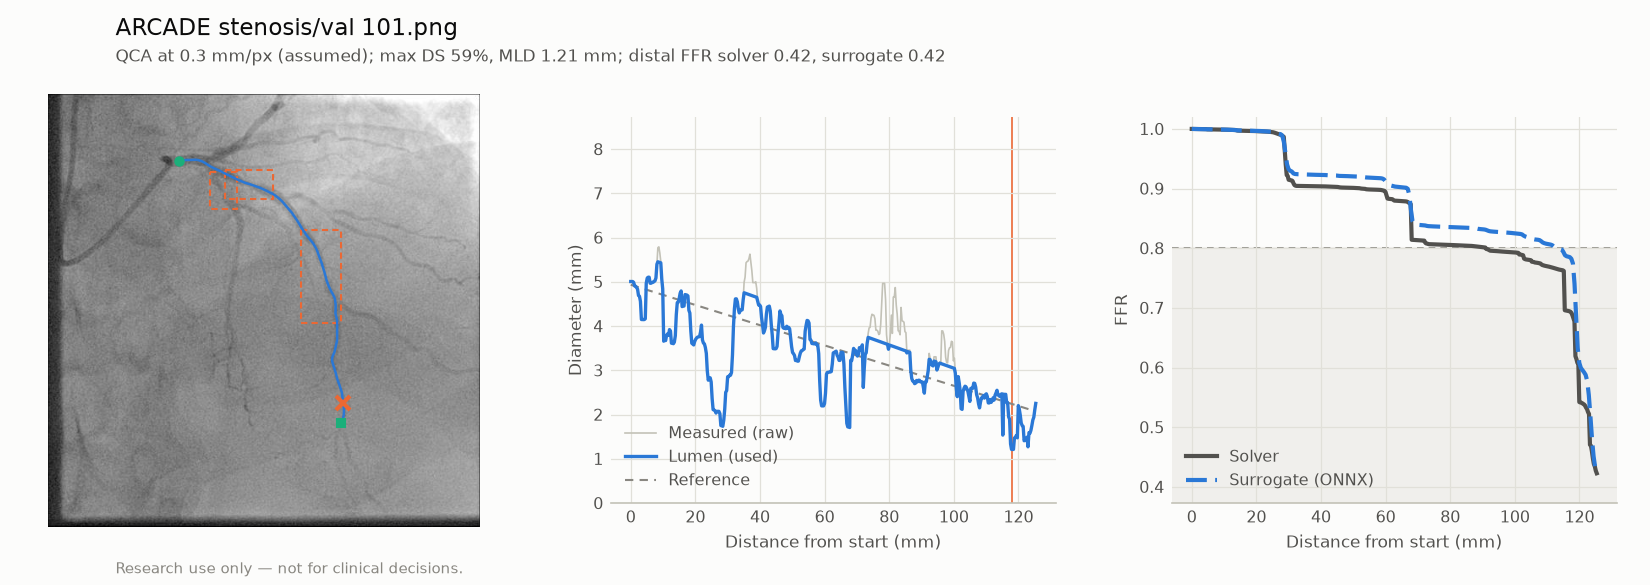
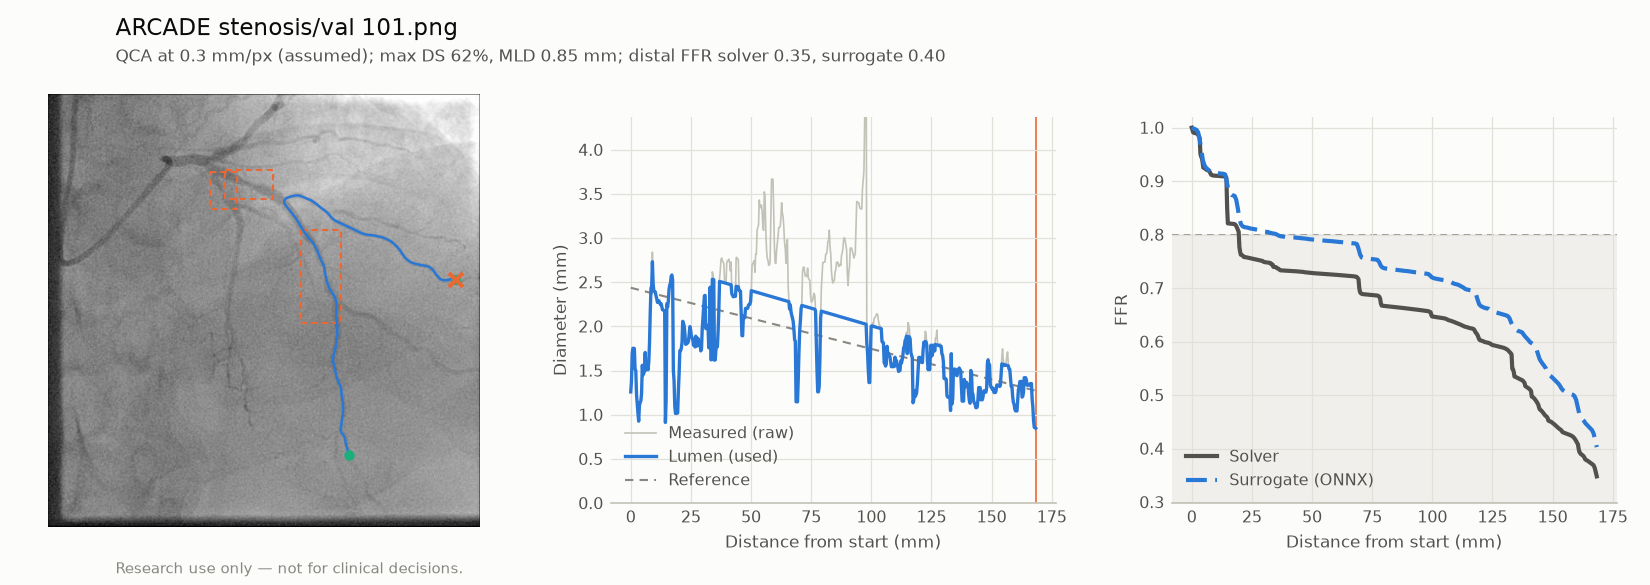
P8: QCA gallery regenerated with the adopted segmenter

diff --git a/reports/qca_gallery.md b/reports/qca_gallery.md
@@ -7,31 +7,31 @@ Generated by `vstent qca-gallery`. Do not edit by hand.
 The first 20 `stenosis/val` images (by COCO id). For each one the longest path of the largest segmented vessel component is selected automatically, so it often is **not** the vessel with the annotated stenosis. Pixel size: 0.30 mm/px **assumed** (ARCADE has no calibration), so lengths, diameters and FFR are illustrative only. The model has no side branches: the full inflow is carried along the whole path, so long paths that taper into thin distal branches show large viscous pressure losses that real flow, which leaves through the branches, would not produce. Dashed orange boxes: ARCADE stenosis annotations. Lumen edges: from the image intensity, guided by the segmentation (the product default, D43).
 
 - Analysed: 20 of 20 (failed: 0).
-- Auto-selected path crosses an annotated stenosis box: 20; of those, point of maximum %DS inside a box: 10, MLD (narrowest absolute diameter, often in a thin distal branch) inside a box: 2.
+- Auto-selected path crosses an annotated stenosis box: 20; of those, point of maximum %DS inside a box: 10, MLD (narrowest absolute diameter, often in a thin distal branch) inside a box: 4.
 - Outside the surrogate's training range (mostly vessel length): 19 of 20.
-- Median |distal FFR solver − surrogate|: 0.035
+- Median |distal FFR solver − surrogate|: 0.054
 
 | Image | Path (mm) | Max DS (%) | MLD (mm) | FFR solver | FFR surrogate | Boxes | Path crosses box | Max DS in box | MLD in box |
 |---|---|---|---|---|---|---|---|---|---|
-| [val_1](figures/qca_examples/val_1.png) | 161 | 77 | 0.73 | 0.19 | 0.17 | 1 | yes | no | no |
-| [val_10](figures/qca_examples/val_10.png) | 110 | 32 | 0.79 | 0.06 | -0.18 | 1 | yes | yes | no |
-| [val_100](figures/qca_examples/val_100.png) | 199 | 59 | 1.75 | 0.62 | 0.61 | 2 | yes | yes | no |
-| [val_101](figures/qca_examples/val_101.png) | 125 | 59 | 1.21 | 0.42 | 0.42 | 3 | yes | yes | no |
-| [val_102](figures/qca_examples/val_102.png) | 243 | 56 | 1.09 | 0.61 | 0.58 | 2 | yes | no | no |
-| [val_103](figures/qca_examples/val_103.png) | 162 | 58 | 0.88 | 0.29 | 0.29 | 3 | yes | yes | no |
-| [val_104](figures/qca_examples/val_104.png) | 265 | 52 | 1.59 | 0.78 | 0.73 | 3 | yes | no | no |
-| [val_105](figures/qca_examples/val_105.png) | 177 | 58 | 1.87 | 0.72 | 0.72 | 1 | yes | yes | no |
-| [val_106](figures/qca_examples/val_106.png) | 148 | 78 | 0.92 | 0.24 | 0.32 | 1 | yes | no | no |
-| [val_107](figures/qca_examples/val_107.png) | 138 | 85 | 0.33 | 0.19 | 0.48 | 2 | yes | no | no |
-| [val_108](figures/qca_examples/val_108.png) | 198 | 67 | 0.99 | 0.27 | 0.34 | 1 | yes | no | no |
-| [val_109](figures/qca_examples/val_109.png) | 179 | 50 | 1.84 | 0.69 | 0.63 | 2 | yes | yes | no |
-| [val_11](figures/qca_examples/val_11.png) | 152 | 39 | 1.13 | 0.51 | 0.50 | 2 | yes | no | no |
-| [val_110](figures/qca_examples/val_110.png) | 68 | 56 | 1.23 | 0.73 | 0.74 | 2 | yes | yes | yes |
-| [val_111](figures/qca_examples/val_111.png) | 242 | 70 | 1.00 | 0.20 | 0.19 | 4 | yes | yes | no |
-| [val_112](figures/qca_examples/val_112.png) | 143 | 58 | 1.52 | 0.52 | 0.58 | 4 | yes | yes | yes |
-| [val_113](figures/qca_examples/val_113.png) | 159 | 67 | 1.23 | 0.40 | 0.38 | 1 | yes | no | no |
-| [val_114](figures/qca_examples/val_114.png) | 151 | 42 | 0.88 | 0.06 | -0.22 | 8 | yes | yes | no |
-| [val_115](figures/qca_examples/val_115.png) | 174 | 67 | 1.14 | 0.35 | 0.41 | 2 | yes | no | no |
-| [val_116](figures/qca_examples/val_116.png) | 229 | 50 | 0.95 | 0.61 | 0.65 | 3 | yes | no | no |
+| [val_1](figures/qca_examples/val_1.png) | 167 | 57 | 1.51 | 0.52 | 0.56 | 1 | yes | yes | no |
+| [val_10](figures/qca_examples/val_10.png) | 111 | 33 | 0.90 | 0.06 | -0.15 | 1 | yes | no | no |
+| [val_100](figures/qca_examples/val_100.png) | 193 | 59 | 1.73 | 0.67 | 0.62 | 2 | yes | yes | no |
+| [val_101](figures/qca_examples/val_101.png) | 168 | 62 | 0.85 | 0.35 | 0.40 | 3 | yes | no | no |
+| [val_102](figures/qca_examples/val_102.png) | 243 | 60 | 1.00 | 0.60 | 0.59 | 2 | yes | no | no |
+| [val_103](figures/qca_examples/val_103.png) | 158 | 57 | 1.03 | 0.35 | 0.39 | 3 | yes | yes | no |
+| [val_104](figures/qca_examples/val_104.png) | 258 | 52 | 1.27 | 0.61 | 0.54 | 3 | yes | no | no |
+| [val_105](figures/qca_examples/val_105.png) | 170 | 57 | 1.91 | 0.79 | 0.74 | 1 | yes | yes | yes |
+| [val_106](figures/qca_examples/val_106.png) | 136 | 76 | 0.92 | 0.30 | 0.34 | 1 | yes | no | no |
+| [val_107](figures/qca_examples/val_107.png) | 149 | 70 | 0.94 | 0.55 | 0.62 | 2 | yes | no | no |
+| [val_108](figures/qca_examples/val_108.png) | 201 | 67 | 1.02 | 0.29 | 0.35 | 1 | yes | no | no |
+| [val_109](figures/qca_examples/val_109.png) | 182 | 50 | 1.68 | 0.66 | 0.62 | 2 | yes | yes | no |
+| [val_11](figures/qca_examples/val_11.png) | 152 | 39 | 1.17 | 0.50 | 0.50 | 2 | yes | no | no |
+| [val_110](figures/qca_examples/val_110.png) | 78 | 75 | 0.70 | 0.61 | 0.69 | 2 | yes | no | no |
+| [val_111](figures/qca_examples/val_111.png) | 249 | 70 | 0.98 | 0.18 | 0.19 | 4 | yes | yes | yes |
+| [val_112](figures/qca_examples/val_112.png) | 141 | 58 | 1.22 | 0.45 | 0.49 | 4 | yes | yes | yes |
+| [val_113](figures/qca_examples/val_113.png) | 189 | 64 | 0.93 | 0.40 | 0.46 | 1 | yes | no | no |
+| [val_114](figures/qca_examples/val_114.png) | 234 | 91 | 0.18 | 0.09 | 0.34 | 8 | yes | yes | yes |
+| [val_115](figures/qca_examples/val_115.png) | 168 | 61 | 0.75 | 0.25 | 0.40 | 2 | yes | yes | no |
+| [val_116](figures/qca_examples/val_116.png) | 233 | 58 | 0.81 | 0.41 | 0.49 | 3 | yes | yes | no |
 
-Models: segmentation `models/seg/seg_unet_r34-20261028-141743`, surrogate `models/surrogate/unet1d_ens5-20261030-113237`. Commit `4c920e5b437be819d9e30ae800e9ae8538d6e574` (dirty: False), 2026-11-01T16:52:37+00:00.
+Models: segmentation `models/seg/seg_unet_r34_synth-20261101-182811`, surrogate `models/surrogate/unet1d_ens5-20261030-113237`. Commit `576bc5fbfba4b77829b46aa1d6b3ed69e0c660af` (dirty: False), 2026-11-01T20:03:42+00:00.
